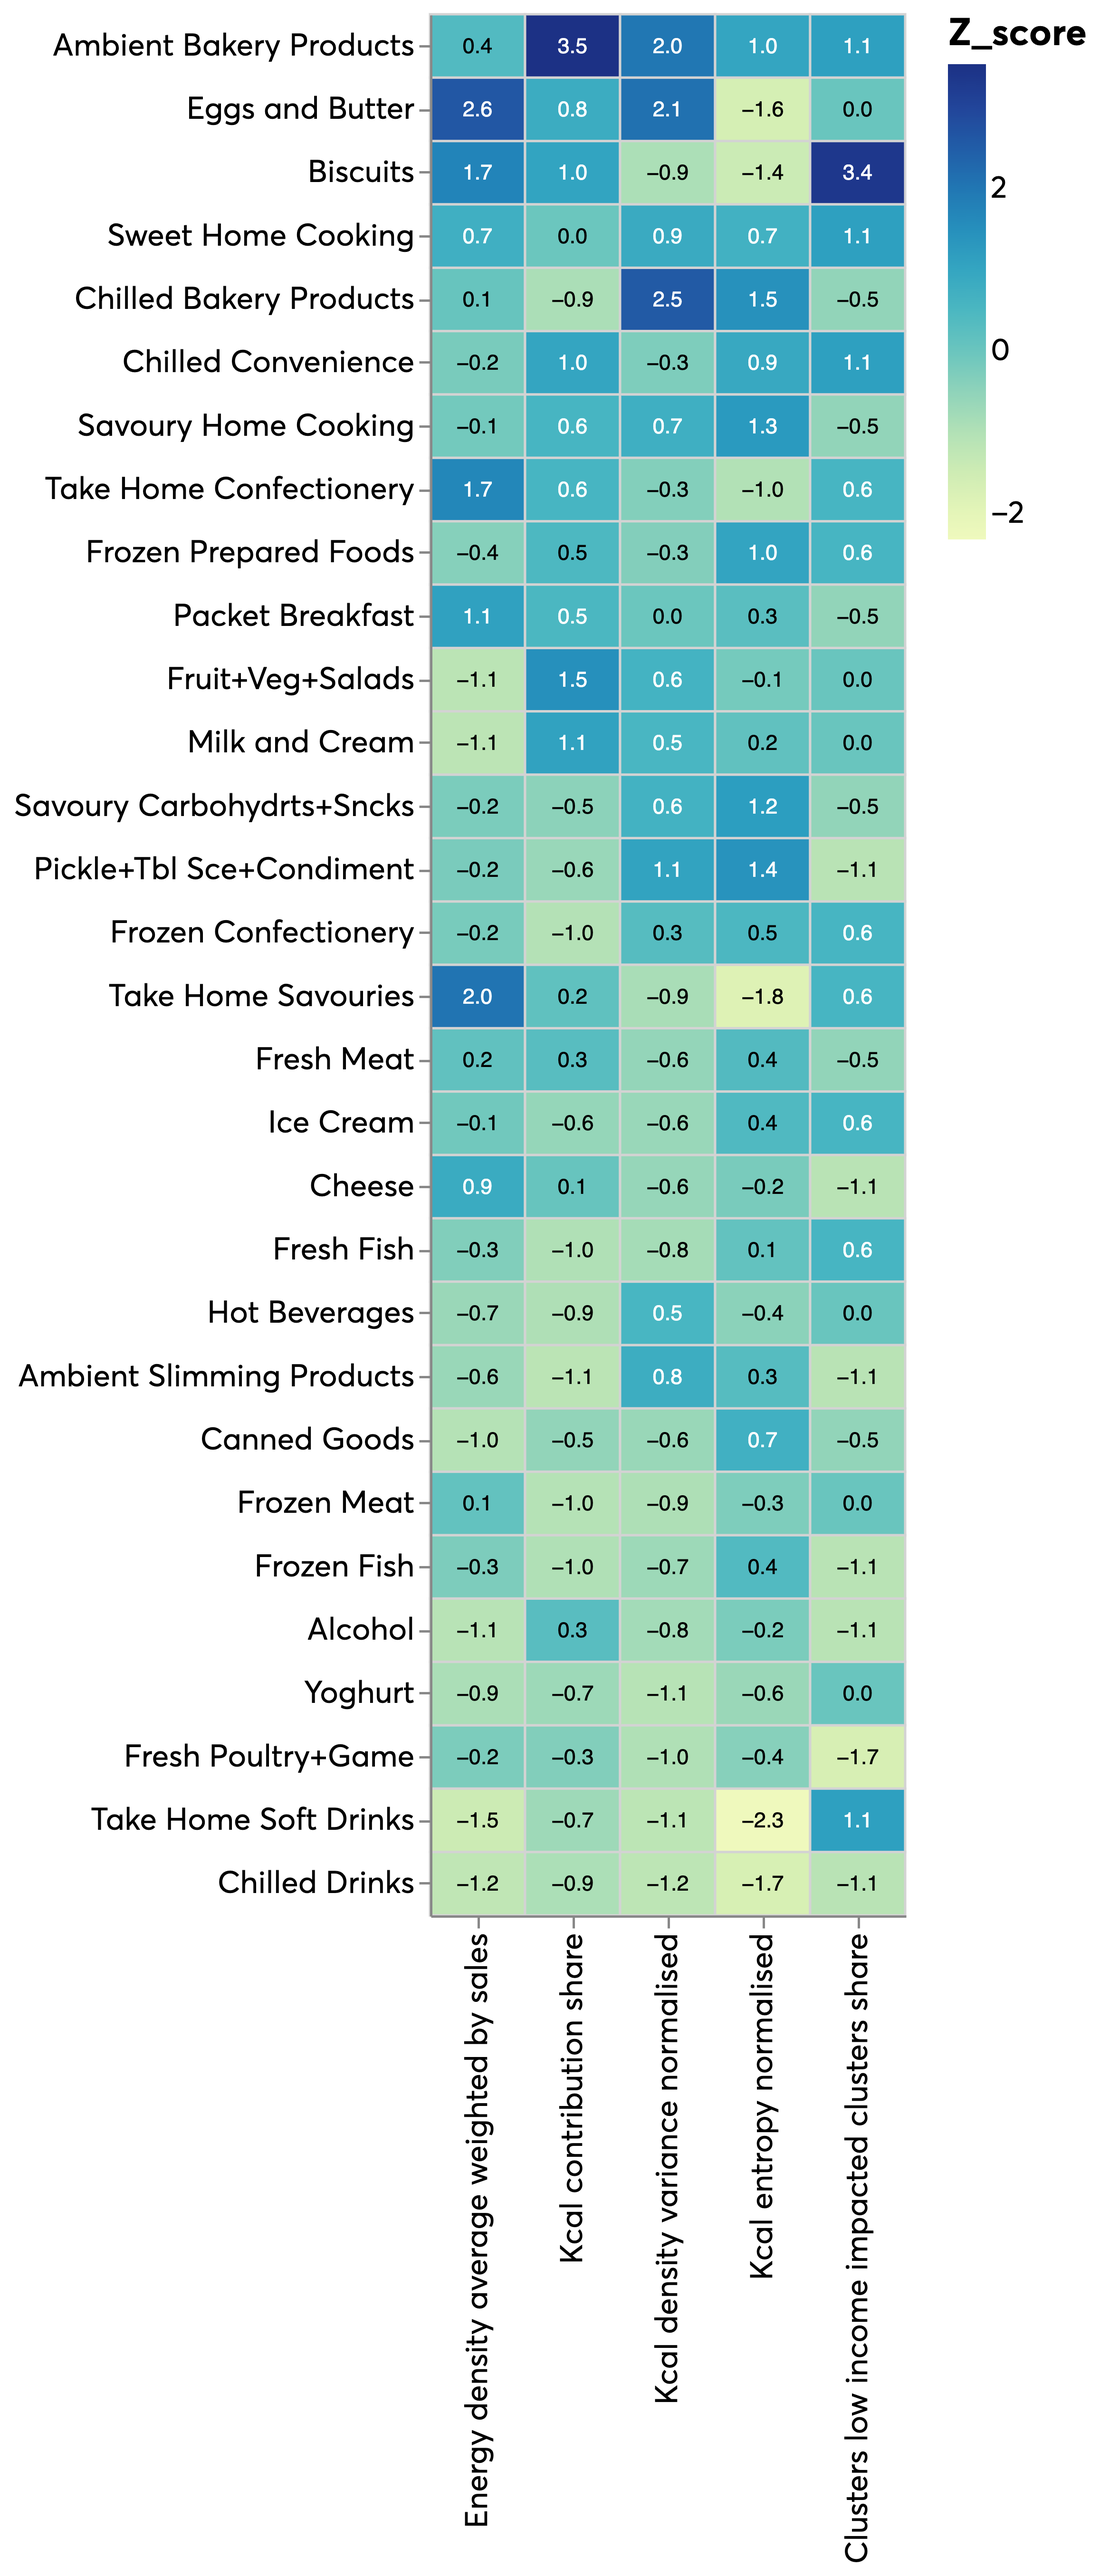
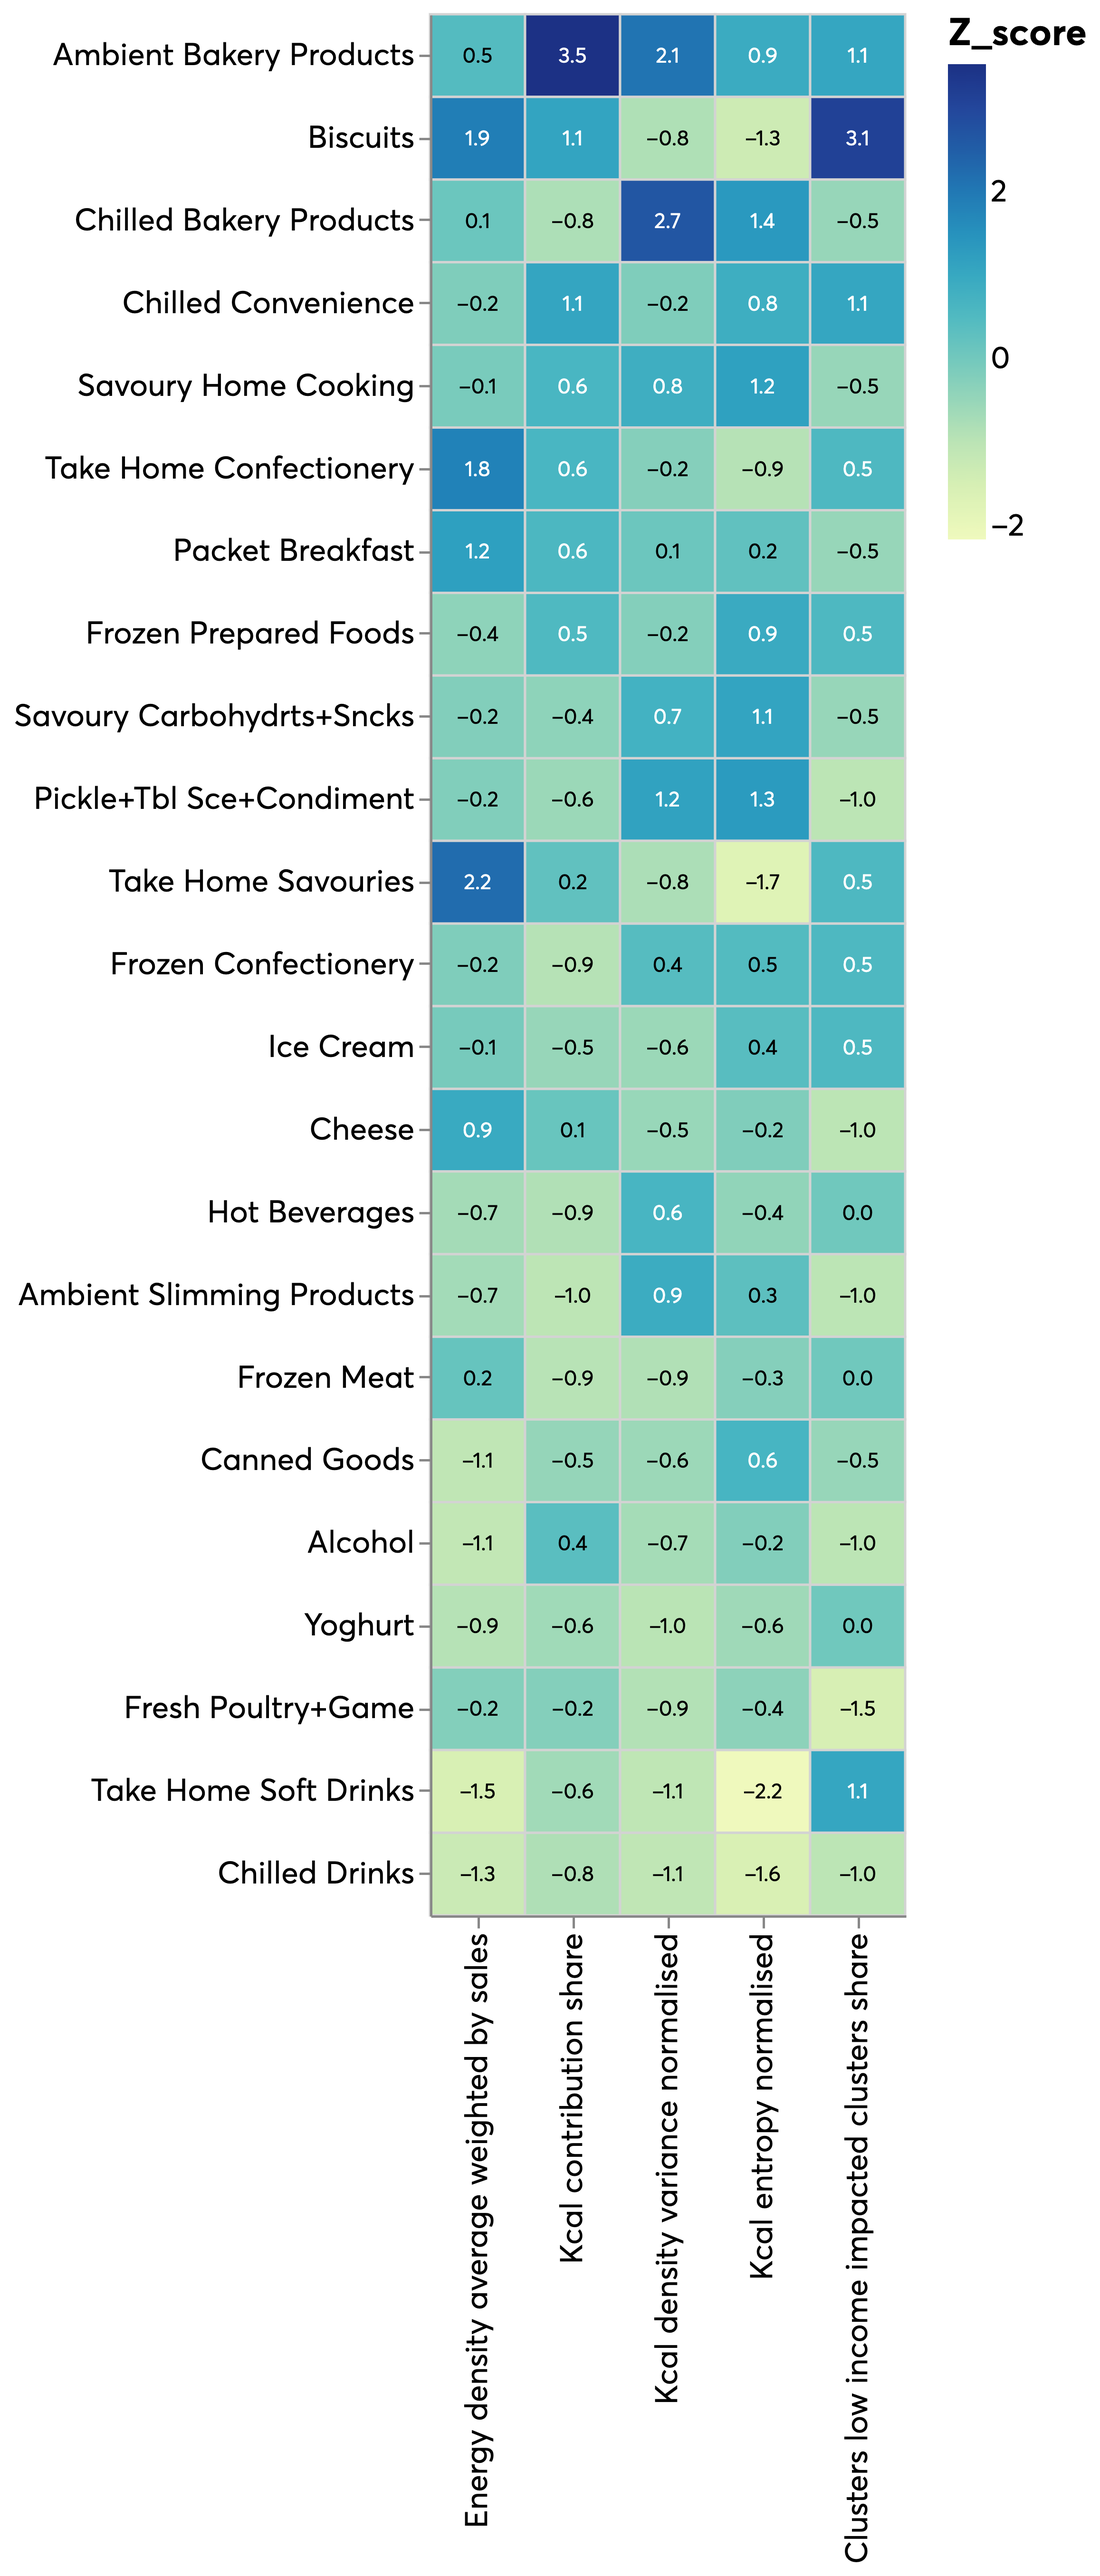
updating files after reducing categories list

diff --git a/ahl_food_reformulation/analysis/decision_table_analysis/make_table_analysis.py b/ahl_food_reformulation/analysis/decision_table_analysis/make_table_analysis.py
@@ -386,7 +386,7 @@ if __name__ == "__main__":
     report_table_clean = (
         load_s3_data(
             "ahl-private-data",
-            "kantar/data_outputs/decision_table/decision_table_rst_4_market_sector.csv",
+            "kantar/data_outputs/decision_table/decision_table_rst_4_market_sector_reduced.csv",
         )
         .drop(axis=1, labels=["chosen_unit"])
         .melt(id_vars="rst_4_market_sector")
@@ -507,7 +507,7 @@ if __name__ == "__main__":
     report_table_detailed = pipe(
         load_s3_data(
             "ahl-private-data",
-            "kantar/data_outputs/decision_table/decision_table_rst_4_extended.csv",
+            "kantar/data_outputs/decision_table/decision_table_rst_4_extended_reduced.csv",
         ).rename(columns={"Unnamed: 0": "product"}),
         lambda df: df.rename(
             columns={
